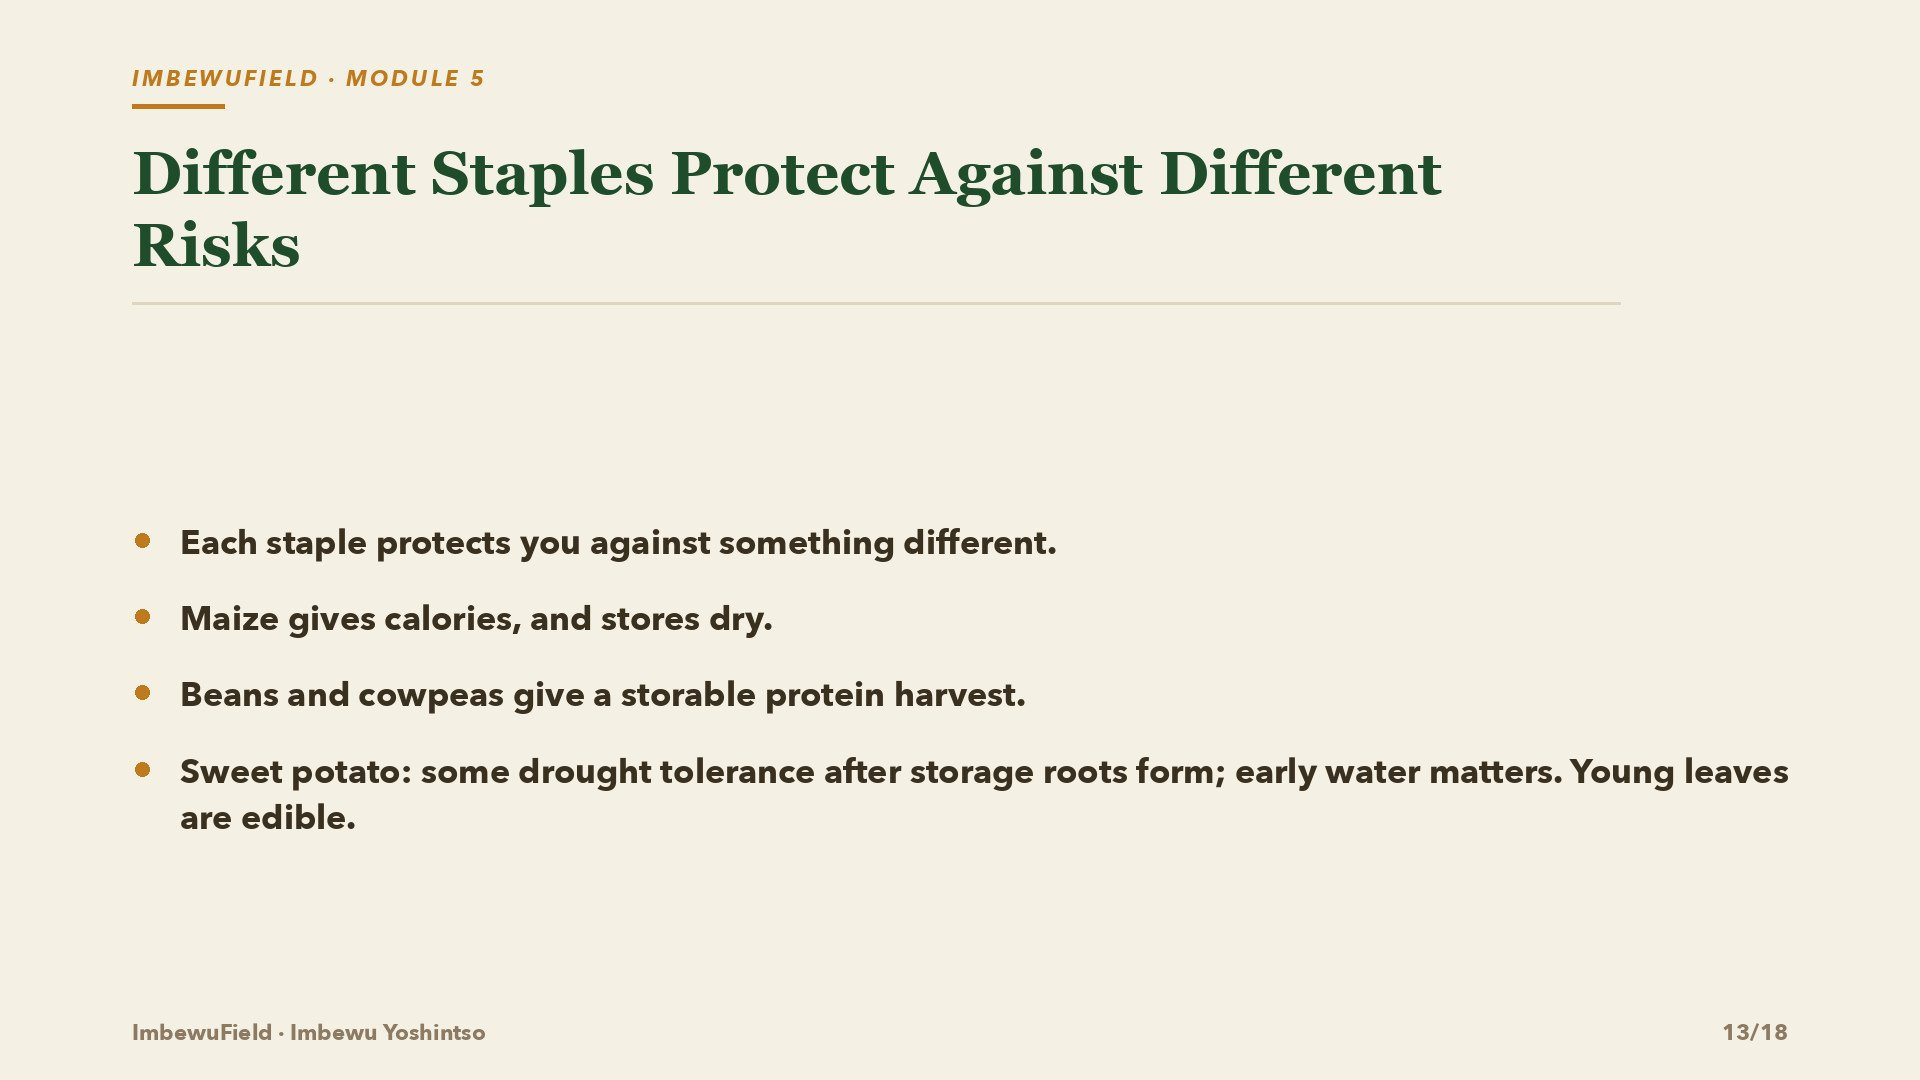
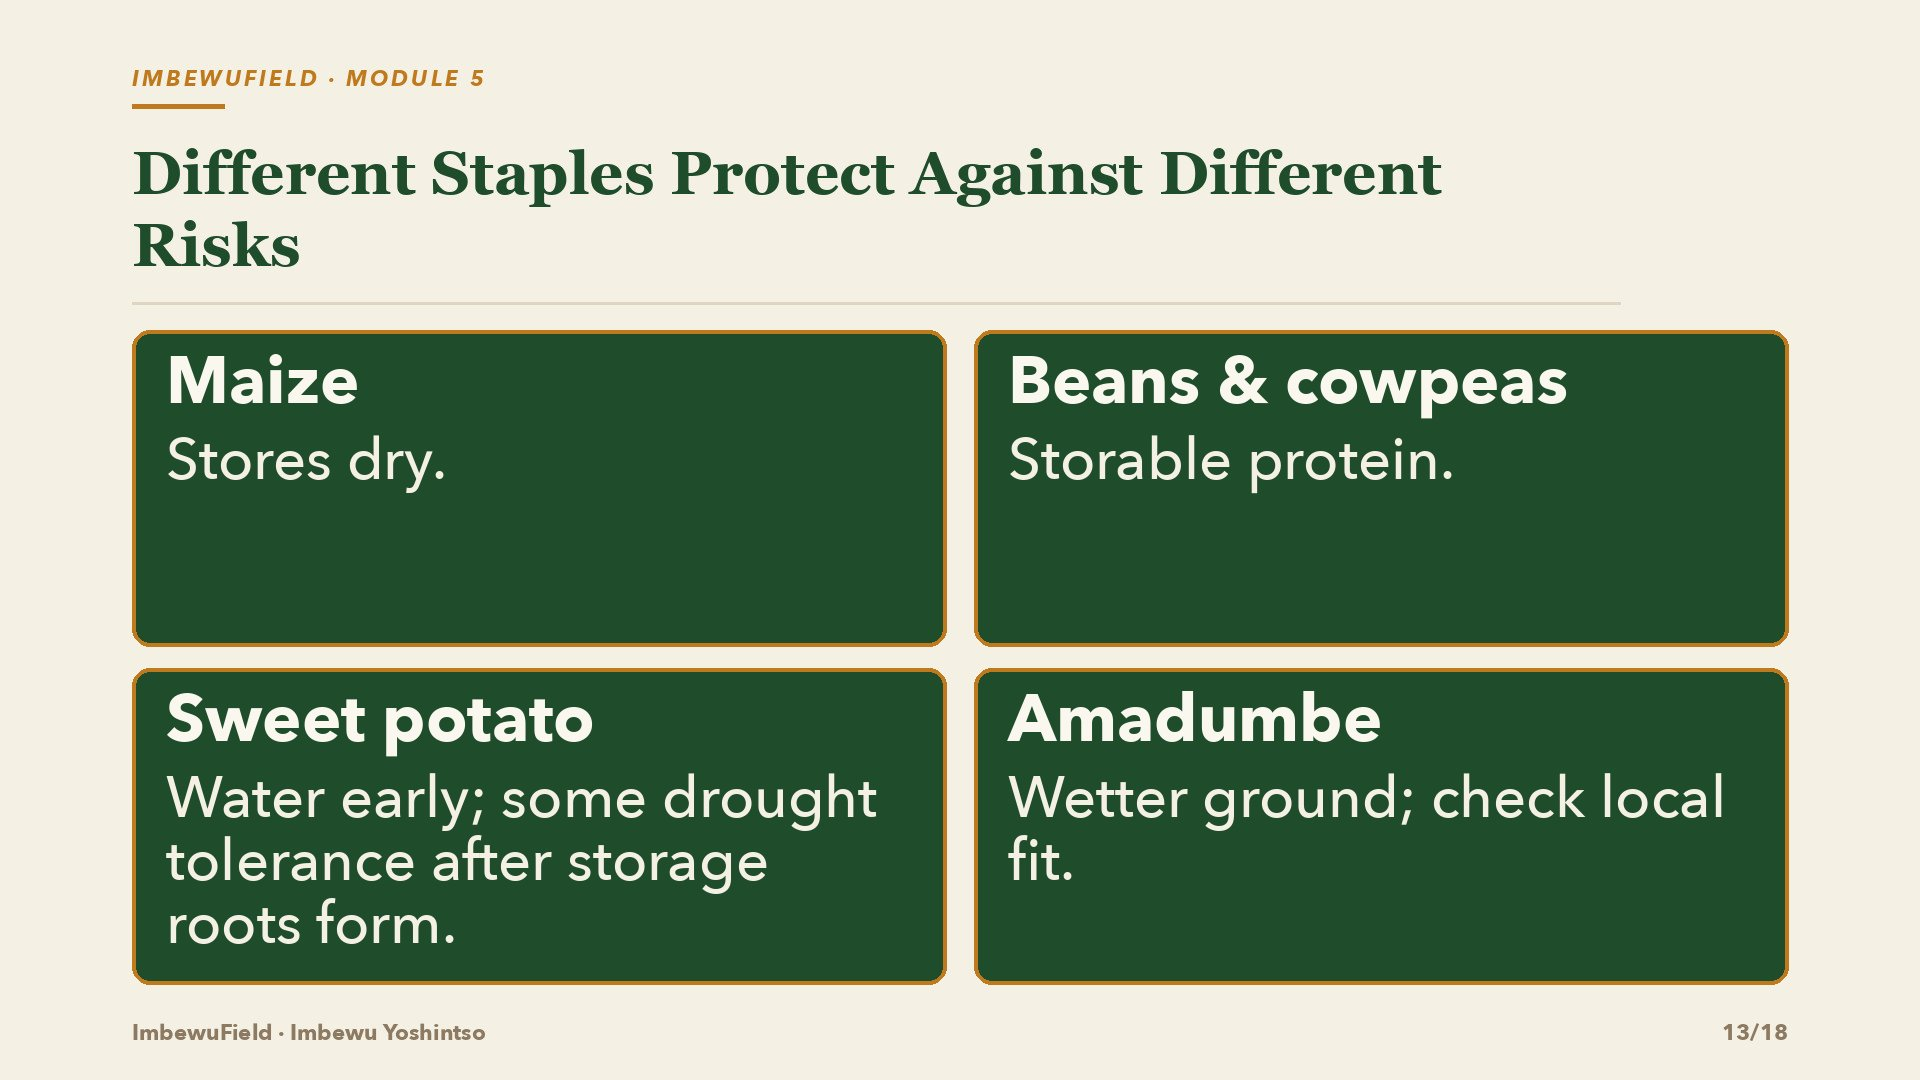
Make Vegetables L3 crop comparison readable on phones

diff --git a/lib/course-asset-sizes.ts b/lib/course-asset-sizes.ts
@@ -722,7 +722,7 @@ export const COURSE_ASSET_SIZES: Readonly<Record<string, number>> = Object.freez
   '/course-decks/vegetables-staples/en/slide-10.jpg': 1044467,
   '/course-decks/vegetables-staples/en/slide-11.jpg': 261180,
   '/course-decks/vegetables-staples/en/slide-12.jpg': 489787,
-  '/course-decks/vegetables-staples/en/slide-13.jpg': 127048,
+  '/course-decks/vegetables-staples/en/slide-13.jpg': 182433,
   '/course-decks/vegetables-staples/en/slide-14.jpg': 118941,
   '/course-decks/vegetables-staples/en/slide-15.jpg': 728993,
   '/course-decks/vegetables-staples/en/slide-16.jpg': 443907,

diff --git a/docs/media/studies-animation-quality/render-vegetables-l3-slide-13.py b/docs/media/studies-animation-quality/render-vegetables-l3-slide-13.py
@@ -1,9 +1,5 @@
 #!/usr/bin/env python3
-"""Rebuild the English Vegetables L3 slide 13 still from its committed source image.
-
-The source commit is pinned so rerunning this local repair always starts with the same JPEG,
-rather than repeatedly editing an already-compressed result.
-"""
+"""Render the English Vegetables L3 slide 13 crop cards from its committed source still."""
 
 from __future__ import annotations
 
@@ -19,10 +15,38 @@ ROOT = Path(__file__).resolve().parents[3]
 RELATIVE_IMAGE = Path("public/course-decks/vegetables-staples/en/slide-13.jpg")
 SOURCE_REVISION = "dcae8bf37ae8181bf767261467154078cf7b8a72"
[1 lines of base64/hex data omitted]
-REPLACEMENT = (
-    "Sweet potato: some drought tolerance after storage roots form; early water matters. "
-    "Young leaves are edible."
+
+PAPER = (244, 240, 228)
+GREEN = (31, 77, 43)
+AMBER = (192, 122, 30)
+CARD_TEXT = (250, 247, 238)
+CARD_BODY = (245, 240, 228)
+
+CARDS = (
+    ("Maize", "Stores dry."),
+    ("Beans & cowpeas", "Storable protein."),
+    (
+        "Sweet potato",
+        "Water early; some drought tolerance after storage roots form.",
+    ),
+    ("Amadumbe", "Wetter ground; check local fit."),
 )
+
+
+def wrap(draw: ImageDraw.ImageDraw, text: str, font: ImageFont.FreeTypeFont, max_width: int) -> list[str]:
+    lines: list[str] = []
+    current = ""
+    for word in text.split():
+        candidate = f"{current} {word}".strip()
+        if draw.textlength(candidate, font=font) <= max_width:
+            current = candidate
+        else:
+            if current:
+                lines.append(current)
+            current = word
+    if current:
+        lines.append(current)
+    return lines
 
 
 def main() -> None:
@@ -40,38 +64,56 @@ def main() -> None:
     if image.size != (1920, 1080):
         raise SystemExit(f"Unexpected source dimensions: {image.size}")
 
-    # Match the existing fourth bullet's position, Avenir face, and palette. The source still's
-    # paper pixels decode to this solid JPEG color, so the cleared area has no visible patch edge.
-    draw = ImageDraw.Draw(image)
-    draw.rectangle((130, 746, 1838, 842), fill=(244, 240, 228))
-    draw.ellipse((135, 762, 149, 776), fill=(192, 122, 30))
-
     font_path = Path("/System/Library/Fonts/Avenir Next.ttc")
     if not font_path.exists():
         raise SystemExit(f"Required local font is missing: {font_path}")
-    font = ImageFont.truetype(str(font_path), 34, index=0)
-    lines: list[str] = []
-    current = ""
-    for word in REPLACEMENT.split():
-        candidate = f"{current} {word}".strip()
-        if draw.textlength(candidate, font=font) <= 1620:
-            current = candidate
-        else:
-            if current:
-                lines.append(current)
-            current = word
-    if current:
-        lines.append(current)
-    if len(lines) != 2:
-        raise SystemExit(f"Expected the replacement bullet to use two lines; got {len(lines)}")
+    title_font = ImageFont.truetype(str(font_path), 66, index=0)
+    body_font = ImageFont.truetype(str(font_path), 58, index=5)
 
-    for index, line in enumerate(lines):
-        draw.text((180, 749 + index * 46), line, font=font, fill=(58, 48, 32))
+    draw = ImageDraw.Draw(image)
+    # Clear only the former bullet area, leaving the original heading, rule and footer untouched.
+    draw.rectangle((126, 328, 1792, 985), fill=PAPER)
+
+    card_width = 814
+    card_height = 316
+    x_positions = (132, 974)
+    y_positions = (330, 668)
+    body_width = 746
+
+    for index, (title, body) in enumerate(CARDS):
+        x = x_positions[index % 2]
+        y = y_positions[index // 2]
+        draw.rounded_rectangle(
+            (x, y, x + card_width, y + card_height),
+            radius=18,
+            fill=GREEN,
+            outline=AMBER,
+            width=4,
+        )
+
+        title_width = int(draw.textlength(title, font=title_font))
+        if title_width > body_width:
+            raise SystemExit(f"Crop name does not fit its card: {title}")
+        draw.text((x + 34, y + 7), title, font=title_font, fill=CARD_TEXT)
+
+        lines = wrap(draw, body, body_font, body_width)
+        if len(lines) > 3:
+            raise SystemExit(f"Crop claim exceeds its card: {title}: {lines}")
+        for line_index, line in enumerate(lines):
+            if draw.textlength(line, font=body_font) > body_width:
+                raise SystemExit(f"Crop claim line exceeds its card: {title}: {line}")
+            draw.text(
+                (x + 34, y + 91 + line_index * 63),
+                line,
+                font=body_font,
+                fill=CARD_BODY,
+            )
 
     output = ROOT / RELATIVE_IMAGE
     image.save(output, "JPEG", quality=85, optimize=False, progressive=False, subsampling=2)
     print(f"Wrote {output}")
     print(f"Dimensions: {image.width}x{image.height}")
+    print("Whole-slide text at 269px: crop names 9.3px; supporting text 8.1px")
     print(f"SHA-256: {hashlib.sha256(output.read_bytes()).hexdigest()}")
 
 

diff --git a/docs/media/studies-animation-quality/vegetables-l3-lesson-check.md b/docs/media/studies-animation-quality/vegetables-l3-lesson-check.md
@@ -11,12 +11,13 @@ The coordinated English correction now carries the stage and early-water
 limits without importing the guideline's general water amount as a local
 threshold. No species list, quiz answer, spacing or harvest date was changed.
 
-Slide 13 is a static card; the existing L3 infographic and other two stills
-are unchanged. The corrected 1920 × 1080 JPEG was visually inspected at full
-size and a 269px fit, with no clipping. At whole-slide phone fit, text remains
-small; the matching English speech, expandable transcript and full-size link
-remain necessary. Image SHA-256:
[1 lines of base64/hex data omitted]
+Slide 13 is a static four-card comparison; the existing L3 infographic and
+other two stills are unchanged. The corrected 1920 × 1080 JPEG was visually
+inspected at full size and a 269px fit, with no clipping. Crop names are about
+9.3px and supporting lines about 8.1px at that fit, clearer than the old
+roughly 5px bullet text. The matching English speech, expandable transcript
+and full-size link remain available. Image SHA-256:
[1 lines of base64/hex data omitted]
 The deterministic [renderer](render-vegetables-l3-slide-13.py) starts from a
 pinned source image; rerunning reproduced this hash.
 
@@ -26,8 +27,9 @@ The slide 13 English MP3 and full 18-slide MP3 were regenerated. The
 combined duration equal to the slide sum. The saved-pack migration retires
 only the old English slide 13 JPEG, its MP3 and the full MP3, without fetching
 replacements or deleting adjacent/isiZulu assets. No new Flow credit or
-SVG/code-drawn animation was used. Local checks, exact-head CI, preview/player
-and offline verification are pending. The [isiZulu packet](../../narration-reviews/vegetables-staples-l3.zu.review.md)
+SVG/code-drawn animation was used. Local typecheck, 3,725 passing tests /
+0 failures / 1 existing TODO, and whitespace check passed. Exact-head CI,
+preview/player and offline verification are pending. The [isiZulu packet](../../narration-reviews/vegetables-staples-l3.zu.review.md)
 is review-only; its old broad dry-period claim is unpublished. Human listening,
 physical-phone, learner, farmer, practitioner and fluent isiZulu approval are
 not claimed.
